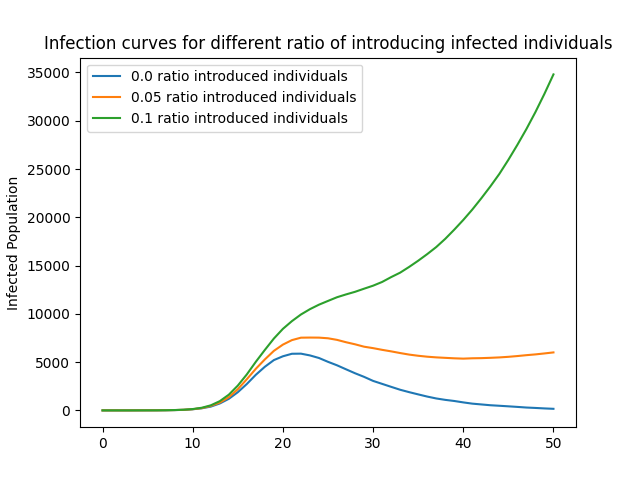
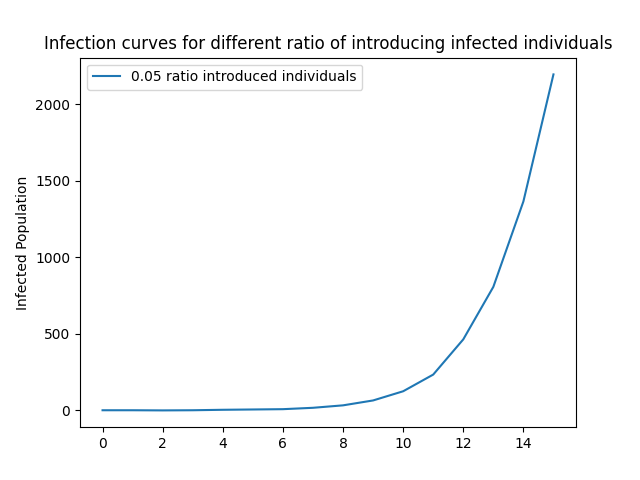
setup of testing

diff --git a/pyEpiabm/pyEpiabm/tests/test_unit/test_sweep/test_travel_sweep.py b/pyEpiabm/pyEpiabm/tests/test_unit/test_sweep/test_travel_sweep.py
@@ -1,0 +1,70 @@
+import unittest
+
+import pyEpiabm as pe
+from pyEpiabm.sweep import TravelSweep
+from pyEpiabm.property import InfectionStatus
+from pyEpiabm.tests.test_unit.parameter_config_tests import TestPyEpiabm
+
+
+class TestTravelSweep(TestPyEpiabm):
+    """Test the 'TravelSweep' class.
+    """
+
+    @classmethod
+    def setUpClass(cls) -> None:
+        super(TestTravelSweep, cls).setUpClass()
+        cls.travelsweep = TravelSweep()
+
+        # Construct a population with 20 individuals in 1 cells,
+        # 2 microcells and 4 households with 2 infectors.
+        cls.pop_factory = pe.routine.ToyPopulationFactory()
+        cls.pop_params = {"population_size": 20, "cell_number": 1,
+                          "microcell_number": 2, "household_number": 4}
+        cls._population = cls.pop_factory.make_pop(cls.pop_params)
+        for person in cls._population.cells[0].persons:
+            person.update_status(InfectionStatus(1))
+        initial_infected_person1 = cls._population.cells[0].microcells[0].persons[0]
+        initial_infected_person1.update_status(InfectionStatus(4))
+        initial_infected_person2 = cls._population.cells[0].microcells[1].persons[0]
+        initial_infected_person2.update_status(InfectionStatus(4))
+
+        cls.travelsweep.bind_population(cls._population)
+
+    def test_bind_population(self):
+        self.assertEqual(len(self.travelsweep.
+                             travel_params), 2)
+        self.test_sweep = pe.sweep.TravelSweep()
+        self.test_sweep.bind_population(self._population)
+        self.assertEqual(self.test_sweep._population.cells[0]
+                         .persons[0].infection_status,
+                         pe.property.InfectionStatus.InfectMild)
+
+    def test__call__(self):
+        self.travelsweep.travel_params['ratio_introduce_cases'] = 1.0
+        self.travelsweep(time=1)
+        self.assertEqual(len(self._population.cells[0].persons), 22)
+        for person in self._population.cells[0].persons:
+            if (hasattr(person, 'travel_end_time')):
+                print(person.travel_end_time)
+        self.travelsweep.travel_params['ratio_introduce_cases'] = 0.0
+        # self.travelsweep(time=10)
+        # print(len(self._population.cells[0].persons))
+        self.travelsweep(time=16)
+        self.travelsweep(time=14)
+        # self.assertEqual(len(self._population.cells[0].persons), 20)
+        print(self.travelsweep.travel_params['ratio_introduce_cases'])
+        for person in self._population.cells[0].persons:
+            if (hasattr(person, 'travel_end_time')):
+                print(person.travel_end_time)
+
+    # def create_introduced_individuals(self):
+
+    # def test_check_leaving_individuals(self):
+    #     self.test_sweep = pe.sweep.TravelSweep()
+    #     self.travelsweep.travel_params['ratio_introduce_cases'] = 1.0
+    #     self.travelsweep(time=1)
+    #     print(self.test_sweep.introduce_population.cells[0].persons)
+
+
+if __name__ == '__main__':
+    unittest.main()

diff --git a/python_examples/travel_example/travel_simulation_flow.py b/python_examples/travel_example/travel_simulation_flow.py
@@ -31,6 +31,7 @@ pe.Parameters.set_file(os.path.join(os.path.dirname(__file__),
 # Parameter to change
 to_modify_parameter = 'ratio_introduce_cases'
 parameter_values = [0.0, 0.05, 0.1]
+# parameter_values = [0.05]
 
 for i in range(len(parameter_values)):
     name_output_file = 'output_{}_{}.csv'.format(
